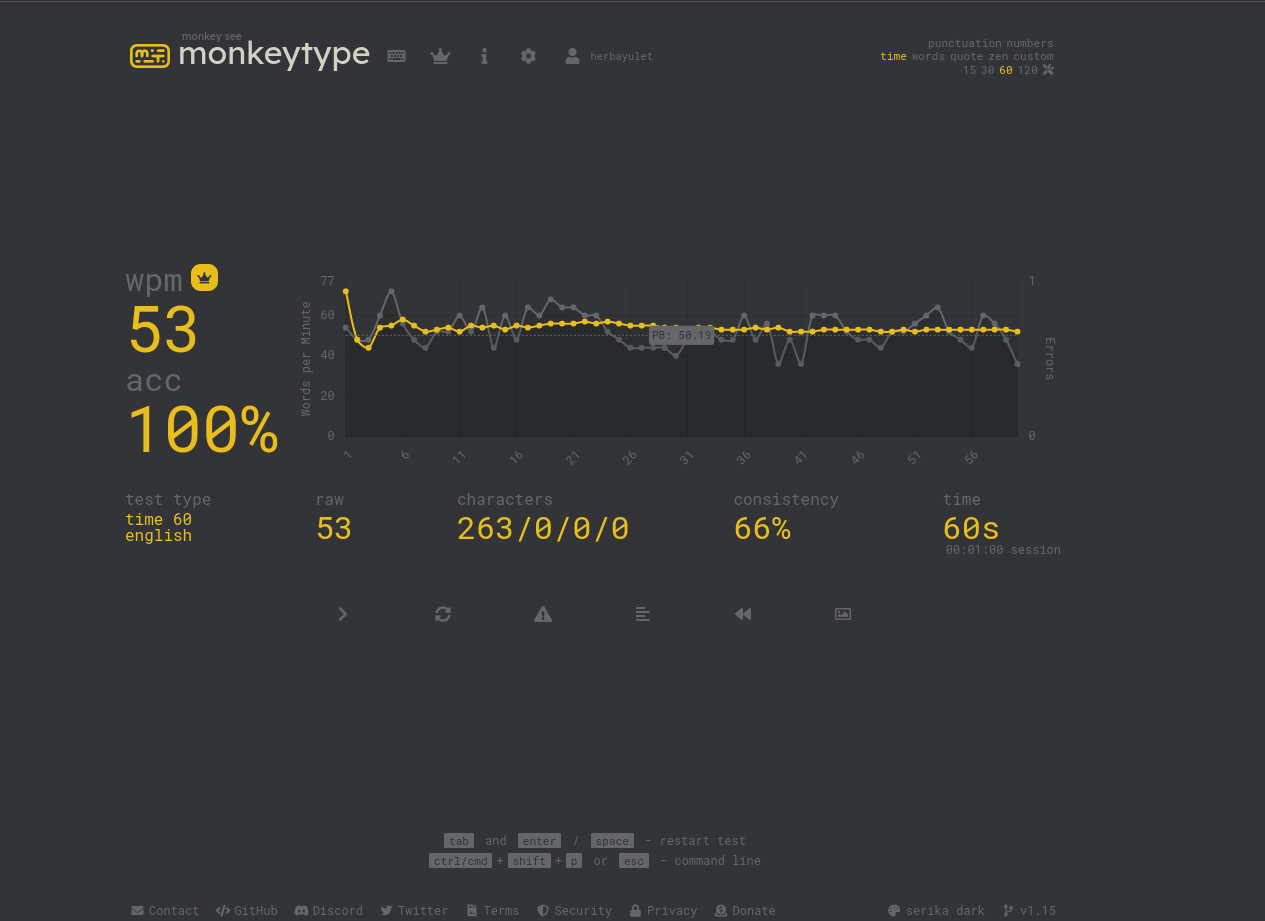
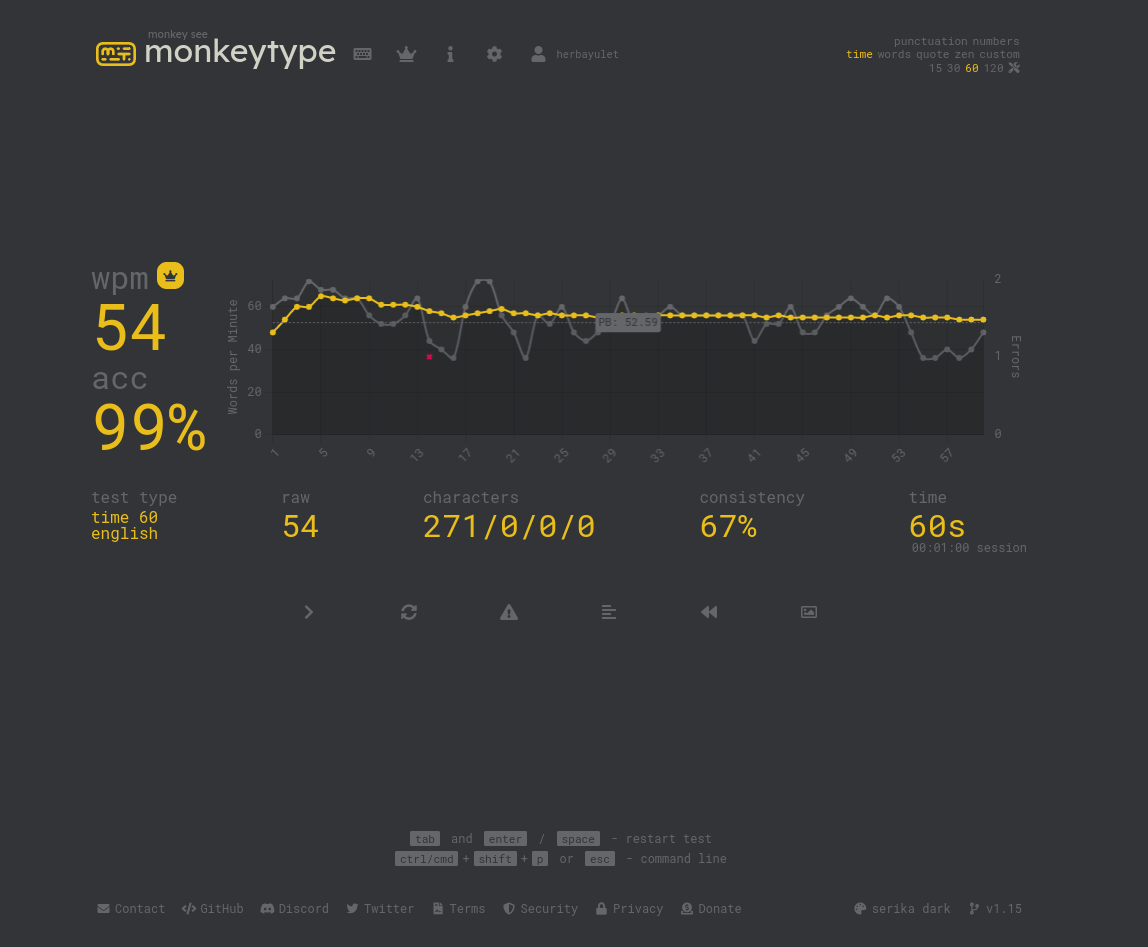
update WPM

diff --git a/readme.md b/readme.md
@@ -1,6 +1,6 @@
 Pengerjaan Daily Task :
 
-- WPM done (dengan file monkeytab.png) => WPM 53 dan acc 100%
+- WPM done (dengan file monkeytab.png) => WPM 54 dan acc 99% dengan durasi 60second
 - Duolingo done (dengan file duolingo.png) => 592 xp
 - Hackkerank done (dengan file hacckerank.png) => 1 week preparation 3 soal (11%) 3/21 soal dan sql 8 soal (5 %)
 - Stackoverflow done (dengan file stackoverflow.png) => pertanyaan terkait go mengenai "package command-line-arguments is not a main package go" dan sudah dijawab
